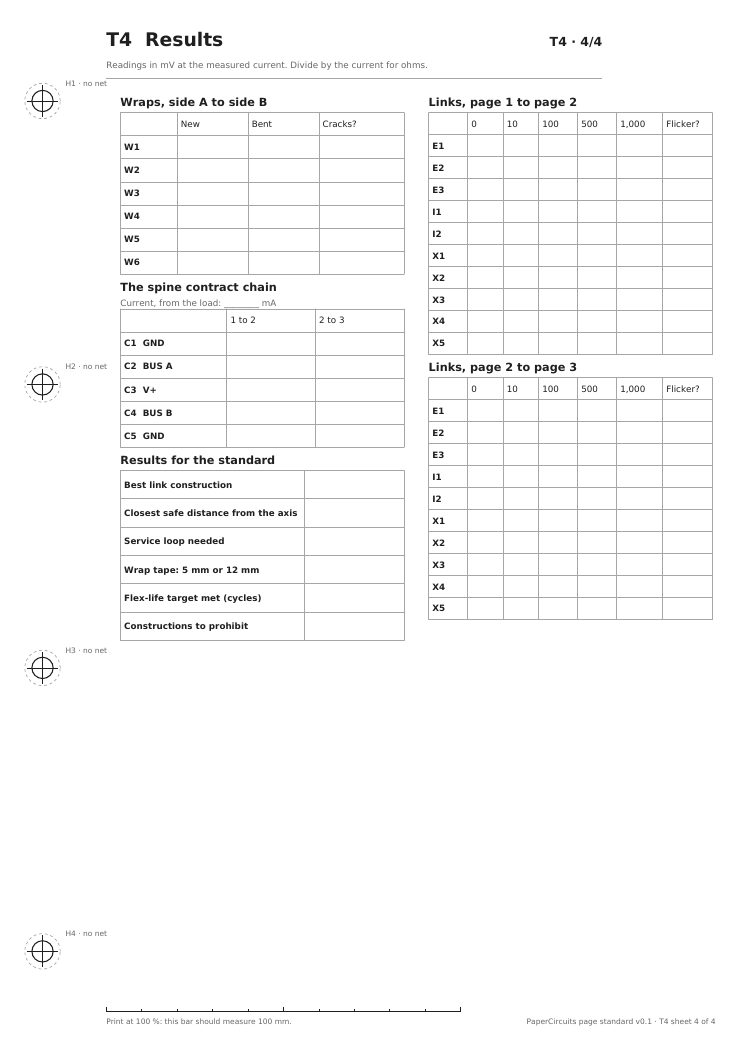
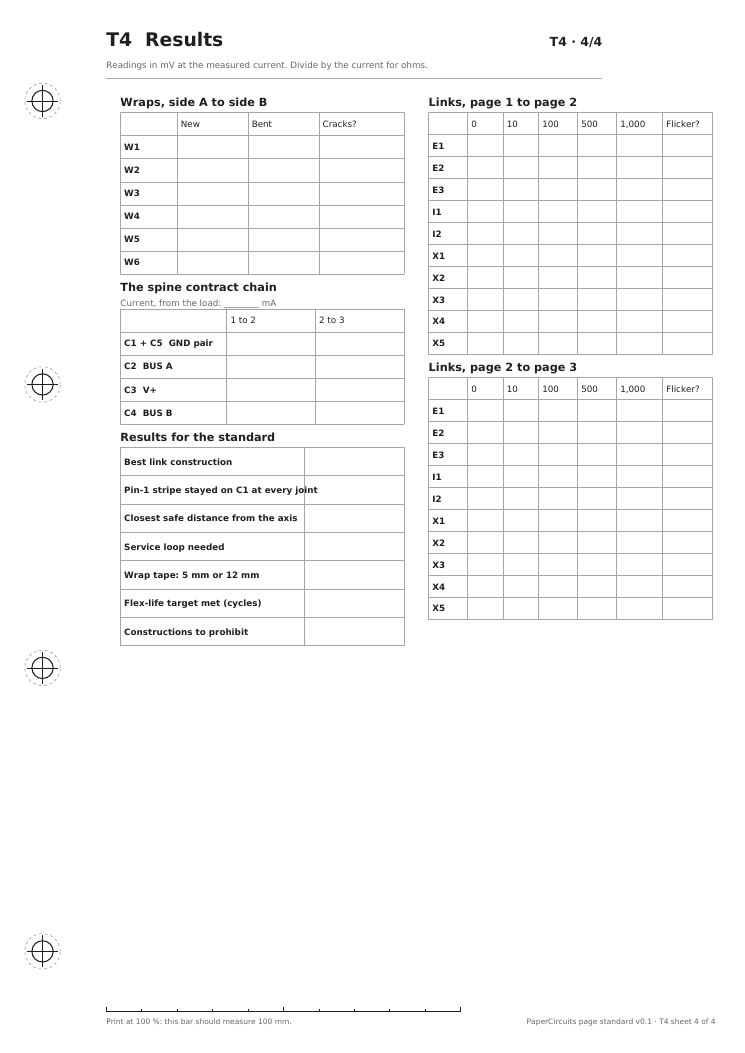
Correct V2 link measurements and safety claims

Changed region(s): [[0.1544, 0.3951, 0.4322, 0.6078], [0.1852, 0.3039, 0.2779, 0.3343]]

diff --git a/papercircuits/elements.py b/papercircuits/elements.py
@@ -96,7 +96,15 @@ def test_point(sh, cx, cy, label=None, side="right", size=6.5):
             sh.text(cx, cy + r + 3.2, label, size=size, bold=True, align="center")
 
 
-def hole(sh, hole_id, connected=True, strip_width=S.TAPE_W, label_below=False, mechanical=False):
+def hole(
+    sh,
+    hole_id,
+    connected=True,
+    strip_width=S.TAPE_W,
+    label_below=False,
+    mechanical=False,
+    show_label=True,
+):
     """Punch guide with eyelet flange ring and the hole's net name. A V2 page's holes are
     `mechanical`: they only bind the page, so the label says it has no net."""
     y, net = S.HOLES[hole_id]
@@ -106,18 +114,22 @@ def hole(sh, hole_id, connected=True, strip_width=S.TAPE_W, label_below=False, m
     arm = S.HOLE_D / 2 + 1.5
     sh.line(x - arm, y, x + arm, y, width=0.15, color=INK)
     sh.line(x, y - arm, x, y + arm, width=0.15, color=INK)
-    if mechanical:
-        tag = f"{hole_id} · no net"
-    else:
-        tag = f"{hole_id} {net}" if connected else f"{hole_id} {net} · NC"
-    label_y = y + strip_width / 2 + 3.8 if label_below else y - strip_width / 2 - 1.7
-    sh.text(x + 6.5, label_y, tag, size=6, color=MUTED)
+    if show_label:
+        if mechanical:
+            tag = f"{hole_id} · no net"
+        else:
+            tag = f"{hole_id} {net}" if connected else f"{hole_id} {net} · NC"
+        label_y = y + strip_width / 2 + 3.8 if label_below else y - strip_width / 2 - 1.7
+        sh.text(x + 6.5, label_y, tag, size=6, color=MUTED)
 
 
-def spine(sh, connected=(), strip_widths=None, edge=False, labels_below=(), mechanical=False):
+def spine(sh, connected=(), strip_widths=None, edge=False, labels_below=(), mechanical=False, show_labels=True):
     """All four holes, optionally the spine edge. `connected` lists hole ids that carry a net strip;
     `labels_below` moves a hole's net name under its strip (H4 when Bus B climbs the gutter).
-    `mechanical` labels every hole as having no net, for V2 pages, whose holes only bind."""
+    `mechanical` labels every hole as having no net, for V2 pages, whose holes only bind.
+    Dense procedure/results pages may set `show_labels=False` while keeping the punch guides."""
+    if mechanical and connected:
+        raise ValueError("a mechanical spine cannot connect binder holes to electrical nets")
     strip_widths = strip_widths or {}
     if edge:
         sh.line(S.SPINE_W, 26, S.SPINE_W, 280, width=0.15, color=GUIDE, dash=(0.4, 1.6))
@@ -129,6 +141,7 @@ def spine(sh, connected=(), strip_widths=None, edge=False, labels_below=(), mech
             strip_width=strip_widths.get(hole_id, S.TAPE_W),
             label_below=hole_id in labels_below,
             mechanical=mechanical,
+            show_label=show_labels,
         )
 
 

diff --git a/papercircuits/sheets/t4_book_interconnects.py b/papercircuits/sheets/t4_book_interconnects.py
@@ -52,6 +52,7 @@ LANE_END_X, TP_X, LABEL_X = 50.0, 44.0, 56.0
 # The proposed spine contract: five pads 8 mm apart on the ring axis between H2 and H3. The
 # two GND pads are one strip, joined round the far side of the others.
 CONTRACT = ("C1", "C2", "C3", "C4", "C5")
+CONTRACT_RESULTS = ("gnd_pair", "bus_a", "power", "bus_b")
 CONTRACT_Y0, CONTRACT_PITCH = 132.5, 8.0
 CONTRACT_VIA_X = 30.0
 GND_TIE_X = 60.0
@@ -181,12 +182,11 @@ def _procedure(sh):
 def _results(sh):
     sheet = WORDS.fields("Sheet 4")
     E.header(sh, PAGE_ID, sheet["title"], sheet["subtitle"], part="4/4")
-    E.spine(sh, mechanical=True)
+    E.spine(sh, mechanical=True, show_labels=False)
     words = WORDS.fields("Results")
     h, note = ts.H, ts.NOTE
     wraps = [["", words["new"], words["handled"], words["cracks"]]] + [[w[0], "", "", ""] for w in WRAPS]
-    contract = WORDS.fields("Contract")
-    chain = [["", words["first"], words["second"]]] + [[f"{c}  {contract[c]}", "", ""] for c in CONTRACT]
+    chain = [["", words["first"], words["second"]]] + [[words[key], "", ""] for key in CONTRACT_RESULTS]
     left = [Paragraph(words["wraps"], h), ts.table(wraps, [16, 20, 20, 24], 6.5)]
     left += [Paragraph(words["chain"], h), Paragraph(words["current"], note), ts.table(chain, [30, 25, 25], 6.5)]
     left += ts.section(

diff --git a/tests/test_elements.py b/tests/test_elements.py
@@ -1,0 +1,36 @@
+from types import SimpleNamespace
+
+import pytest
+
+from papercircuits import elements as E
+
+
+class RecordingSheet:
+    def __init__(self):
+        self.texts = []
+
+    def circle(self, *_args, **_kwargs):
+        pass
+
+    def line(self, *_args, **_kwargs):
+        pass
+
+    def text(self, _x, _y, value, **_kwargs):
+        self.texts.append(value)
+
+
+def test_mechanical_spine_labels_holes_as_having_no_net():
+    sheet = RecordingSheet()
+    E.spine(sheet, mechanical=True)
+    assert sheet.texts == [f"H{i} · no net" for i in range(1, 5)]
+
+
+def test_spine_can_hide_labels_on_dense_results_pages():
+    sheet = RecordingSheet()
+    E.spine(sheet, mechanical=True, show_labels=False)
+    assert sheet.texts == []
+
+
+def test_mechanical_spine_rejects_electrical_hole_connections():
+    with pytest.raises(ValueError, match="mechanical spine cannot connect"):
+        E.spine(SimpleNamespace(), connected=("H2",), mechanical=True)

diff --git a/docs/v2/electrical-architecture.md b/docs/v2/electrical-architecture.md
@@ -9,12 +9,12 @@ V2 pages are two-layer paper PCBs bound in a ring binder. The rings and holes on
 | Question | Proposal | Status |
 |---|---|---|
 | Shared nets | Five conductors: GND, BUS A, V+, BUS B, GND | Proposed |
-| Pin order | Symmetric, so a link turned end for end still puts V+ on V+ and GND on GND | Proposed |
+| Pin order | Supply-symmetric, plus an orientation mark so BUS A and BUS B cannot be swapped | Proposed |
 | Topology | A chain of short links, one per page boundary, with every page passing all five conductors on | Proposed; construction **[T4]** |
 | Where links sit | Between holes, on or close to the ring axis, not at the page edge | **[T4]** |
 | Supply | 3 × AA, 4.5 V nominal, as V1 | Proposed |
 | Protection | One resettable fuse (0.1 A hold) at power entry; no series diode | Proposed |
-| Book budget | 16 pages, 100 mA in total, 0.25 V drop at most | Proposed; link resistance **[T4]** |
+| Book budget | 16 pages (15 boundaries), 100 mA total, 0.25 V drop at most | Proposed; link resistance **[T4]** |
 | Removable pages | Not while powered; a page is replaced by cutting and resoldering its two links | Proposed |
 | V1 compatibility | V1 and V2 pages don't share a binder | Proposed |
 
@@ -41,7 +41,7 @@ Each page boundary has one link of five conductors, in this order from the top o
 | 4 | BUS B | Signal, 0 V to V+ |
 | 5 | GND | Return, conductor 2 of 2 |
 
-- **Symmetric on purpose.** A link turned end for end, or a page bound upside down, maps GND to GND and V+ to V+. Only BUS A and BUS B swap, and that's harmless at signal currents. A learner can't reverse the supply by wiring a link backwards.
+- **Supply-symmetric on purpose.** A link turned end for end maps GND to GND and V+ to V+, so it cannot reverse the supply. It does swap BUS A and BUS B, which is **not** harmless: the wrong receiver may hear a signal, or two drivers may contend. Every ribbon therefore has a visible pin-1 stripe at C1, every pad block marks C1, and assembly instructions require the stripe to stay on C1 at both ends. A later connector must be keyed as well as marked.
 - **Two GND conductors.** They share the return current, halve the return resistance, and keep the book powered if one GND joint cracks. Tie them together on every page.
 - **Same nets as V1.** V1 already shares V+, GND, BUS A and BUS B through its holes, so V1 lessons need no new nets, only a new way of reaching them.
 
@@ -61,13 +61,13 @@ Resistances below are for a 35 µm copper foil, the thin end of craft tape.
 | Good solder joint | about 1 mΩ |
 | Unsoldered tape overlap | not yet measured (T0, T1) |
 
-**Design point:** 16 pages and 100 mA in total. That's roughly ten lessons with an LED lit on each, or an oscillator page or two. The limit is 0.25 V dropped between the supply and the last page.
+**Design point:** 16 pages, including the power-entry page, and 100 mA in total. The last page is 15 page-to-page boundaries from the source. That's roughly ten lessons with an LED lit on each, or an oscillator page or two. The limit is 0.25 V dropped between the supply and the last page.
 
-- **V+ path:** 16 links in series.
-- **GND return:** the same 16 links, with two conductors in parallel.
-- **Allowed per link conductor:** at most **0.1 Ω after the flex-life target**. That gives 1.6 Ω on V+ and 0.8 Ω on GND, 2.4 Ω in all, so 0.24 V at 100 mA.
+- **V+ path:** 15 links in series, each at most **0.1 Ω after the flex-life target**.
+- **GND return:** 15 pairs in series. The two conductors in each pair are tied together at both ends and must measure at most **0.05 Ω as a pair**.
+- **Whole path:** 1.5 Ω on V+ plus 0.75 Ω on GND gives 2.25 Ω, or 0.225 V at 100 mA.
 
-That 0.1 Ω limit is T4's pass mark.
+Those 0.1 Ω V+ and 0.05 Ω GND-pair limits are T4's pass marks. T4 measures the GND pair as one parallel return; dividing either GND conductor's voltage by the total current would understate its resistance because the current splits between them.
 
 **Measuring it.** A 0.1 Ω link is below what a meter's 200 Ω range can read (its resolution is 0.1 Ω). T4 measures each link as a voltage drop instead:
 - Pass a known load current through the book: a 100 Ω resistor at the far page draws about 45 mA.
@@ -80,12 +80,14 @@ That 0.1 Ω limit is T4's pass mark.
 
 | Fault | What happens | Protection |
 |---|---|---|
-| V+ shorted to GND on any page | Up to about 1.5 A for a few seconds through the links before the fuse trips | **Fuse:** 0.1 A hold, at power entry. Each link carries about 0.2 W briefly, which stays well short of hot. |
-| A link fitted end for end | Nothing on V+ or GND; BUS A and BUS B swap | The symmetric contract |
+| V+ shorted to GND on any page | Cell current flows until the fuse trips; the peak and duration depend on the cells, PTC and wiring | **Provisional [T4]:** characterize trip time and peak joint temperature with the intended 0.1 A-hold fuse before making a safety claim. |
+| A link fitted end for end | V+ and GND remain correct, but BUS A and BUS B swap | Pin-1 stripe at C1 now; a keyed connector if one is adopted later |
 | BUS A or BUS B shorted to V+ or GND | Under 5 mA flows | **Bus drivers:** every page that drives a bus does so through at least 1 kΩ, and receivers are high-impedance. |
 | One GND joint cracks | The book stays powered on the other GND conductor | Two GND pins; T4 records it as a fail even so |
 | A V+ joint cracks | Every page beyond it goes dark | **Spine test points:** each page has V+ and GND test points on its spine strip, so a builder can find the break page by page. |
 | An intermittent link while turning pages | Flicker or reset | The T4 flex tests set the construction and the service loop |
+
+At the provisional worst case of 1.5 A and the resistance limits above, one boundary could dissipate about 0.225 W in V+ and 0.113 W in the combined GND return. Heat is concentrated at joints and depends on PTC trip time, so the proposal does not claim this is safe until a fused fault test records current, trip time and temperature. Do not perform that test on an unfused T4 coupon.
 
 **No series diode at power entry.** The holder can only take its cells one way, and the contract can't reverse the supply, so a diode would cost about 0.3 V for no benefit. Revisit this if V2 ever allows other supplies, such as USB.
 
@@ -117,7 +119,7 @@ A three-page book that is run through T4's chosen flex-life cycles:
 It must show:
 - link drops within the budget at 45 mA, before and after cycling
 - no intermittent loss of V+ while turning pages, watched on the meter's minimum/maximum mode, or as LED flicker
-- the fuse tripping on a planted short at page 3, with no link or joint getting warm
+- the fuse tripping on a planted short at page 3, with peak current, trip time and the hottest joint temperature recorded against a pass limit chosen before the test
 
 ## Still open
 

diff --git a/papercircuits/sheets/t4_book_interconnects.md b/papercircuits/sheets/t4_book_interconnects.md
@@ -76,7 +76,7 @@ link can be probed at once. Sheet 3 says how to build and test the links.
 - 5 mm and 12 mm copper tape, solder and a soldering iron
 - Stranded hookup wire, about 28 AWG, and a strip of ribbon cable
 - Thin card, clear tape, a needle and thread for strain relief
-- A 100 Ω resistor (¼ W or more), a 3 × AA holder and clip leads
+- A 100 Ω resistor (½ W or more), a 3 × AA holder and clip leads
 - A multimeter with a 200 mV range
 
 ## 1 · Wraps
@@ -97,7 +97,9 @@ link can be probed at once. Sheet 3 says how to build and test the links.
    front of page 3, the way the row's label says. Keep each solder joint at least 5 mm from the
    ring axis, except X4's, which tests a joint on it. On the axis rows, lay the wire or ribbon
    along the axis between the two joints.
-5. Join C1 to C5 the same way, with a five-conductor strip of ribbon laid along the axis.
+5. Join C1 to C5 the same way, with a five-conductor strip of ribbon laid along the axis. Mark
+   the C1 edge with a stripe and keep that stripe on C1 at both ends; reversing the ribbon swaps
+   BUS A and BUS B even though V+ and GND stay safe.
 
 ## 3 · Measuring a link
 
@@ -109,10 +111,15 @@ link can be probed at once. Sheet 3 says how to build and test the links.
 
 ## 4 · The spine contract chain
 
-1. Clip the holder to page 1: red to C3 (V+), black to C1 (GND).
-2. Clip the 100 Ω resistor across C3 and C1 on page 3.
-3. Measure each of C1, C3 and C5 from one page to the next on the 200 mV range. Measure C2 and
-   C4 as in step 3.
+1. Clip the holder to page 1: red to C3 (V+), black to both C1 and C5 (the GND pair).
+2. Clip the 100 Ω resistor across C3 and the joined C1/C5 pair on page 3.
+3. Measure C3 from one page to the next. Its drop divided by the total current must be 0.1 Ω or
+   less.
+4. Measure the GND pair from one page to the next: one probe touches both C1 and C5 on the first
+   page, and the other touches both on the next page. Its drop divided by total current must be
+   0.05 Ω or less. Do not calculate either GND conductor from total current; the current splits.
+5. Test C2 and C4 one at a time in the separate loop from section 3. Confirm that the ribbon's
+   striped edge is on C1 at both ends before applying power.
 
 ## 5 · Flex cycles
 
@@ -130,7 +137,8 @@ link can be probed at once. Sheet 3 says how to build and test the links.
 
 ## Pass or fail
 
-- **Pass:** 0.1 Ω or less after the flex-life target, and steady while the pages turn.
+- **Pass:** each individual link is 0.1 Ω or less, the contract's GND pair is 0.05 Ω or less,
+  and the load stays steady while the pages turn.
 - **Fail:** a crack, lifted tape, torn paper or any flicker.
 - Links at the edge move about 24 mm each cycle. If they fail, the V2 standard will prohibit
   them.
@@ -151,6 +159,10 @@ link can be probed at once. Sheet 3 says how to build and test the links.
 - current: Current, from the load: ________ mA
 - first: 1 to 2
 - second: 2 to 3
+- gnd_pair: C1 + C5  GND pair
+- bus_a: C2  BUS A
+- power: C3  V+
+- bus_b: C4  BUS B
 - links_1: Links, page 1 to page 2
 - links_2: Links, page 2 to page 3
 - flicker: Flicker?
@@ -158,6 +170,7 @@ link can be probed at once. Sheet 3 says how to build and test the links.
 ## Results for the standard
 
 - Best link construction
+- Pin-1 stripe stayed on C1 at every joint
 - Closest safe distance from the axis
 - Service loop needed
 - Wrap tape: 5 mm or 12 mm
